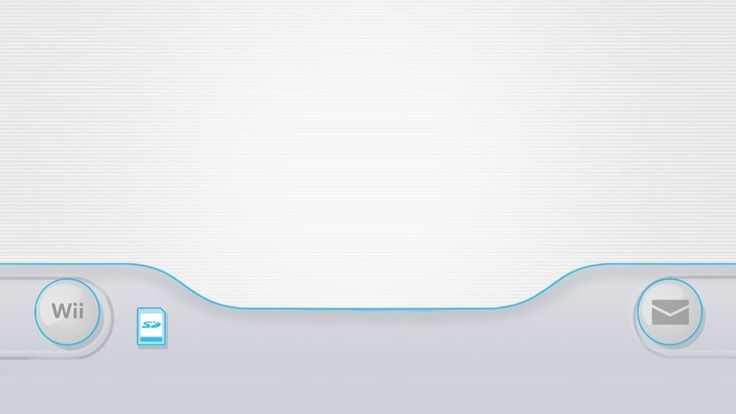
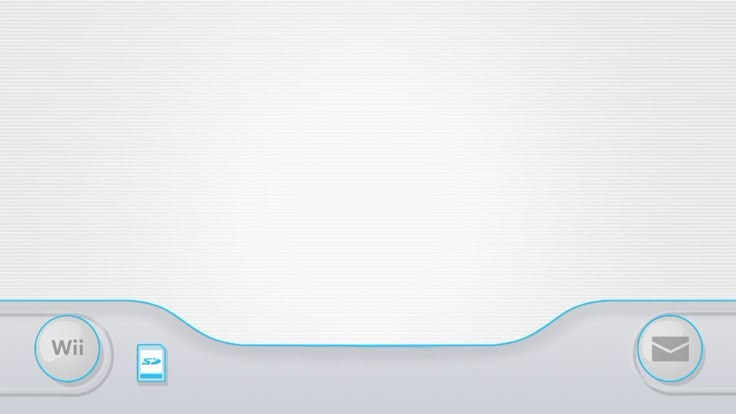
Eliminar elementos no usados.

Changed region(s): [[0.0, 0.6087, 1.0, 0.9565], [0.0, 0.8986, 0.125, 0.9565]]

diff --git a/index.html b/index.html
@@ -15,7 +15,7 @@
         <div class="contenedor">
 
             <a class="card" href="https://alejmteo.github.io/github_webpage/" target="_blank">
-                <img class="icono-card" src="images/mii_pfp3.jpeg" alt="Alejandro">
+                <img class="icono-card" src="images/mii.jpeg" alt="Alejandro">
                 <h2>Web de Ale</h2>
             </a>
 
@@ -40,7 +40,7 @@
             </a>
 
             <a class="card" href="https://steamcommunity.com/profiles/76561199111346851/" target="_blank">
-                <img class="icono-card" src="images/hades_no_titulo.jpeg" alt="Steam">
+                <img class="icono-card" src="images/hades.jpeg" alt="Steam">
                 <h2>Steam</h2>
             </a>
 

diff --git a/style.css b/style.css
@@ -3,7 +3,7 @@
 }
 
 body {
-    background-image: url('images/wii_menu2.jpg');
+    background-image: url('images/wii_menu.jpg');
     background-size: cover;       
     background-position: center;  
     background-attachment: fixed; 
